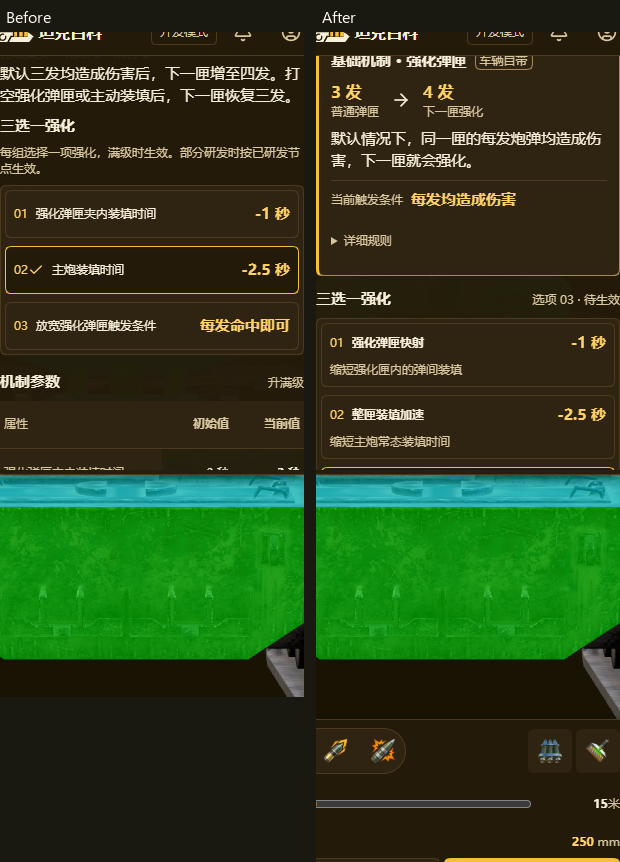
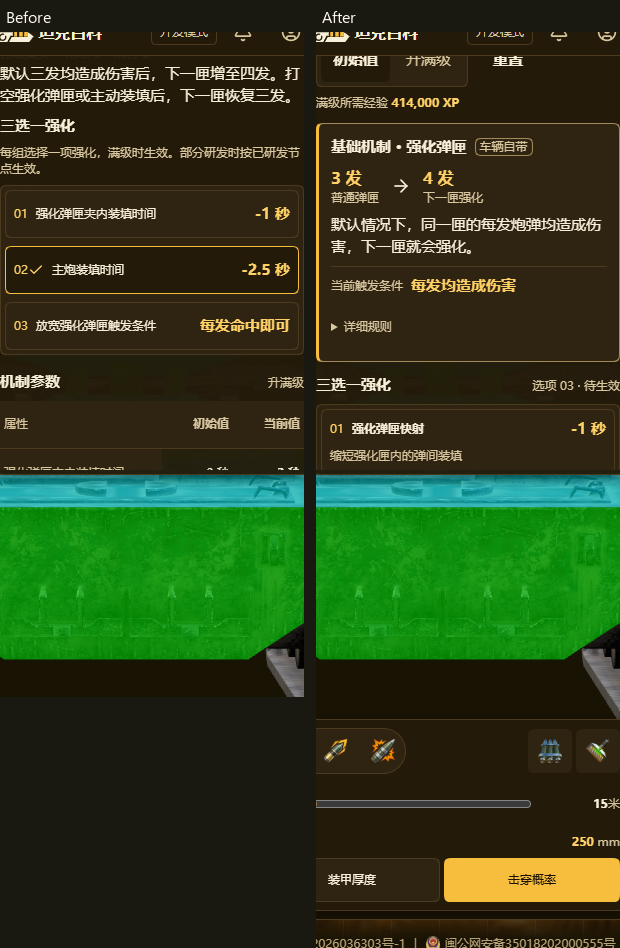
feat(frontend): 在 XI 升级切换器旁显示满级总经验

diff --git a/frontend/src/components/TankConfigPanel.vue b/frontend/src/components/TankConfigPanel.vue
@@ -22,7 +22,7 @@ import { configIndexFor, consumableTiming, pickGun, pickTurret, presetSlots, tan
 import { formatUpgradeValue } from '../utils/formatUpgradeValue'
 import { fmtNum } from '../scene/tankMeta.js'
 import { romanLevel } from '../utils/tierFormat.js'
-import { boundAbility, resolveUpgradeSelection, mechanicParameterGroups } from '../replay-local/compute/tankUpgrades'
+import { fullResearchXp, boundAbility, resolveUpgradeSelection, mechanicParameterGroups } from '../replay-local/compute/tankUpgrades'
 import { parseAugmentProgression, researchGroupChoice } from '../replay-local/compute/tankAugmentTree'
 import { isConditionalCrewSkill } from '../replay-local/compute/crewStats'
 
@@ -66,6 +66,10 @@ const upgrades = computed(() => {
   const state = resolveUpgradeSelection(props.modules, props.selection.upgrade, props.selection.abilities)
   return { ...state, supported: state.supported && props.upgradeSupported }
 })
+const fullXp = computed(() => fullResearchXp(upgrades.value))
+const fullXpText = computed(() => fullXp.value == null
+  ? t('agentTanks.configurator.xp_incomplete')
+  : t('agentTanks.configurator.xp_value', { value: fullXp.value.toLocaleString(locale.value) }))
 const upgradeOptions = computed(() => [
   { value: 'stock', label: t('agentTanks.configurator.upgrade_stock'), testid: 'tank-upgrade-stock' },
   { value: 'top', label: t('agentTanks.configurator.upgrade_top'), testid: 'tank-upgrade-top', disabled: !upgrades.value.supported },
@@ -479,15 +483,8 @@ const camoBonusParts = computed(() => {
 
 <template>
   <section class="tp-config" :class="{ 'is-embedded': embedded }" :aria-label="t('agentTanks.configurator.title')" data-testid="tank-configurator">
-    <header class="tp-config-head">
+    <header v-if="!embedded || !upgrades.available" class="tp-config-head">
       <h2 v-if="!embedded" class="tp-section-title">{{ t('agentTanks.configurator.title') }}</h2>
-      <SegmentedControl
-        v-if="embedded && upgrades.available"
-        :model-value="upgrades.mode"
-        :options="upgradeOptions"
-        :aria-label="t('agentTanks.configurator.upgrade_title')"
-        @update:model-value="emit('update', { upgrade: $event })"
-      />
       <div class="tp-config-actions">
         <AppButton v-if="!upgrades.available" variant="ghost" size="sm" data-testid="tank-preset-stock" @click="emit('preset', 'stock')">
           {{ t('agentTanks.configurator.stock') }}
@@ -503,14 +500,14 @@ const camoBonusParts = computed(() => {
 
     <section v-if="upgrades.available" class="tp-config-block tp-upgrades" data-testid="tank-upgrades">
       <h3 v-if="!embedded">{{ t('agentTanks.configurator.upgrade_title') }}</h3>
-      <SegmentedControl
-        v-if="!embedded"
-        class="tp-upgrade-mode"
-        :model-value="upgrades.mode"
-        :options="upgradeOptions"
-        :aria-label="t('agentTanks.configurator.upgrade_title')"
-        @update:model-value="emit('update', { upgrade: $event })"
-      />
+      <div class="tp-upgrade-row">
+        <SegmentedControl class="tp-upgrade-mode" :model-value="upgrades.mode" :options="upgradeOptions"
+          :aria-label="t('agentTanks.configurator.upgrade_title')" @update:model-value="emit('update', { upgrade: $event })" />
+        <span class="tp-upgrade-xp" data-testid="tank-full-xp">{{ t('agentTanks.configurator.full_xp') }} <strong>{{ fullXpText }}</strong></span>
+        <AppButton v-if="embedded" variant="ghost" size="sm" data-testid="tank-config-reset" @click="emit('reset')">
+          {{ t('agentTanks.configurator.reset') }}
+        </AppButton>
+      </div>
       <p v-if="!embedded" class="tp-muted">{{ t('agentTanks.configurator.upgrade_hint') }}</p>
       <p v-if="!upgrades.supported" class="tp-muted" role="status">{{ t('agentTanks.configurator.upgrade_unsupported') }}</p>
       <TankMechanicSummary v-for="message in mechanicMessages" :key="`${modules.tankId}-${message.name}`"
@@ -559,6 +556,10 @@ const camoBonusParts = computed(() => {
         <p v-if="hasMissingValues" class="tp-muted">{{ t('agentTanks.configurator.missing_mechanic_values') }}</p>
       </section>
     </section>
+
+    <p v-if="Number(detail.tier) === 11 && !upgrades.available" class="tp-upgrade-xp" data-testid="tank-full-xp">
+      {{ t('agentTanks.configurator.full_xp') }} <strong>{{ fullXpText }}</strong>
+    </p>
 
     <!-- 桌面/平板：首行 = 4 个类型标签，之后按选项序号逐行展开（炮塔1|火炮1|发动机1|履带1，
          下一行炮塔2|火炮2…），4 列严格对齐，避免右侧空白。 -->
@@ -807,7 +808,7 @@ const camoBonusParts = computed(() => {
 }
 .tp-config.is-embedded { gap: var(--space-2); padding: 0; border: 0; border-radius: 0; background: transparent; box-shadow: none; }
 .tp-config.is-embedded .tp-config-head { justify-content: flex-end; }
-.tp-config.is-embedded .tp-config-head > .segmented { margin-inline-end: auto; }
+
 
 .tp-config-head { display: flex; align-items: center; justify-content: space-between; gap: var(--space-2); flex-wrap: wrap; }
 .tp-config-actions { display: flex; flex-wrap: wrap; gap: var(--space-1); }
@@ -816,7 +817,10 @@ const camoBonusParts = computed(() => {
 .tp-muted { margin: 0; color: var(--color-text-secondary); font: var(--type-caption); }
 
 .tp-upgrades { grid-template-columns: minmax(0, 1fr); }
-.tp-upgrade-mode { justify-self: start; max-inline-size: 100%; }
+.tp-upgrade-row { display: flex; align-items: center; gap: var(--space-2) var(--space-3); flex-wrap: wrap; }
+.tp-upgrade-xp { margin: 0; color: var(--color-text-secondary); font: var(--type-caption); overflow-wrap: anywhere; }
+.tp-upgrade-xp strong { color: var(--color-accent-text); font-variant-numeric: tabular-nums; }
+.tp-upgrade-mode { flex: 0 0 auto; max-inline-size: 100%; }
 .tp-upgrade-mode :deep(.segmented-option) { flex: 0 1 auto; white-space: normal; }
 .tp-ability-options { display: grid; grid-template-columns: repeat(3, minmax(0, 1fr)); gap: var(--space-2); }
 .tp-ability-options :deep(.segmented-option) {
@@ -1041,6 +1045,7 @@ const camoBonusParts = computed(() => {
 }
 
 @media (width < 768px) {
+  .tp-upgrade-row .tp-upgrade-xp { order: 1; flex-basis: 100%; }
   .tp-ability-options.is-tiles { grid-template-columns: minmax(0, 1fr); grid-auto-flow: row; }
   .tp-ability-content { flex-direction: row; align-items: center; flex-wrap: wrap; }
   .tp-ability-content > .tp-muted { flex-basis: 100%; }

diff --git a/frontend/src/replay-local/compute/tankUpgrades.test.ts b/frontend/src/replay-local/compute/tankUpgrades.test.ts
@@ -8,7 +8,7 @@ import { computeCharacteristics } from './characteristics'
 import { baseSelection, buildComputeInput } from './tankSetup'
 import { parseTankopediaQuery } from '../../utils/tankopediaQuery.js'
 import { parseAugmentProgression, researchGroupChoice } from './tankAugmentTree'
-import { mechanicParameterGroups, projectTankUpgrades, resolveUpgradeSelection, upgradeMechanicEffects, type UpgradeDefinition, type UpgradeNode } from './tankUpgrades'
+import { fullResearchXp, mechanicParameterGroups, projectTankUpgrades, resolveUpgradeSelection, upgradeMechanicEffects, type UpgradeDefinition, type UpgradeNode } from './tankUpgrades'
 
 const bz = TANKS.find(t => t.modules.tankId === 15153)!
 const object432 = TANKS.find(t => t.modules.tankId === 27905)!
@@ -611,5 +611,46 @@ describe('XI 投影后的 DPM 与伤害/装填自洽', () => {
     // 连发炮的 dpm 恒为 null（与包内一致），不得被补成数字
     const burstDetail = { ...detail, configs: [{ ...detail.configs[0], is_burst: true }] }
     expect(projectTankUpgrades(burstDetail, modules, 'top', []).detail.configs[0].dpm).toBeNull()
+  })
+})
+
+describe('full XI research cost', () => {
+  const price = (modules: unknown) => fullResearchXp(resolveUpgradeSelection(modules, 'stock'))
+  it.each([[23361, 414000], [30993, 414000], [30737, 320000], [10593, 320000]])('counts shared prerequisites and each group once for %i', (id, expected) => {
+    const modules = T11R3.tanks.find(tank => tank.modules.tankId === id)!.modules
+    expect(price(modules)).toBe(expected)
+    for (const mode of ['stock', 'custom', 'top']) {
+      for (const choice of modules.upgradeProgression.alternativeGroups[0]!.choices)
+        expect(fullResearchXp(resolveUpgradeSelection(modules, mode, [choice]))).toBe(expected)
+    }
+  })
+  const sample = () => resolveUpgradeSelection(T11R3.tanks[0]!.modules, 'top')
+  it('distinguishes free research from missing or invalid prices', () => {
+    const s = sample()
+    const paid = [...s.nodes.filter(n => n.type !== 'NODETYPE_ALTERNATIVE_MECHANIC'), ...s.groups]
+    for (const entry of paid) entry.xpCost = 0
+    expect(fullResearchXp(s)).toBe(0)
+    for (const invalid of [undefined, null, -1, Infinity, NaN, '100']) {
+      paid[0]!.xpCost = invalid
+      expect(fullResearchXp(s)).toBeNull()
+    }
+    paid[0]!.xpCost = 0
+    delete s.groups[0]!.xpCost
+    expect(fullResearchXp(s)).toBeNull()
+  })
+  it('rejects unknown contracts, broken dependencies, and mismatched versions', () => {
+    const s = sample()
+    const choice = s.nodes.find(n => n.type === 'NODETYPE_ALTERNATIVE_MECHANIC')!
+    choice.xpCost = 0
+    expect(fullResearchXp(s)).toBeNull()
+    delete choice.xpCost
+    const node = s.nodes[0]!
+    for (const req of [[node.techName], ['missing'], [choice.techName], 'broken']) {
+      node.requiredNodes = req
+      expect(fullResearchXp(s)).toBeNull()
+    }
+    const modules = T11R3.tanks[0]!.modules
+    expect(price({ ...modules, gameVersion: 'other' })).toBeNull()
+    expect(price({ tier: 11 })).toBeNull()
   })
 })

diff --git a/frontend/src/replay-local/compute/tankUpgrades.ts b/frontend/src/replay-local/compute/tankUpgrades.ts
@@ -251,6 +251,46 @@ export function resolveUpgradeSelection(modules: unknown, mode?: unknown, inputC
   return result
 }
 
+/** Cost from stock to full research. The validated selection owns node identities and group membership. */
+export function fullResearchXp(selection: UpgradeSelection): number | null {
+  if (!selection.available || !selection.supported) return null
+  const required = new Map(selection.nodes.map(node => [node.techName, node]))
+  if (required.size !== selection.nodes.length) return null
+
+  const paid = new Set<string>()
+  const visiting = new Set<string>()
+  let total = 0
+  function charge(cost: unknown): boolean {
+    if (typeof cost !== 'number' || !Number.isSafeInteger(cost) || cost < 0) return false
+    total += cost
+    return Number.isSafeInteger(total)
+  }
+  function prerequisitesValid(refs: unknown): boolean {
+    return refs === undefined || (Array.isArray(refs) && refs.every(name => {
+      const node = required.get(name)
+      return node && node.type !== 'NODETYPE_ALTERNATIVE_MECHANIC' && visit(node)
+    }))
+  }
+  function visit(node: UpgradeNode): boolean {
+    if (paid.has(node.techName)) return true
+    if (visiting.has(node.techName)) return false
+    visiting.add(node.techName)
+    if (!prerequisitesValid(node.requiredNodes)) return false
+    if (node.type === 'NODETYPE_ALTERNATIVE_MECHANIC') {
+      if ('xpCost' in node) return false
+    } else if (!charge(node.xpCost)) return false
+    visiting.delete(node.techName)
+    paid.add(node.techName)
+    return true
+  }
+
+  if (!selection.nodes.every(visit)) return null
+  for (const group of selection.groups) {
+    if (!prerequisitesValid(group.requiredNodes) || !charge(group.xpCost)) return null
+  }
+  return total
+}
+
 export const HIT_TRIGGER_ATTRIBUTES = new Set([
   'SAS_ALLOW_ACTIVATE_ON_HIT',
   'EXTERNAL_AMMO_MODULE_ALLOW_NON_DAMAGING_HITS',

diff --git a/frontend/src/components/TankConfigPanel.behavior.test.js b/frontend/src/components/TankConfigPanel.behavior.test.js
@@ -124,9 +124,23 @@ describe('XI 技能选择卡与效果反馈', () => {
     wrapper.unmount()
   })
 
+  it('refreshes the XP label when an embedded panel changes vehicle or dataset', async () => {
+    const tank = t11r3.tanks.find(t => t.modules.tankId === 23361)
+    const wrapper = panel('ru', tank, { embedded: true })
+    const xp = () => wrapper.get('[data-testid="tank-full-xp"]').text()
+    expect(xp()).toContain((414000).toLocaleString('ru'))
+    await wrapper.setProps({ modules: { ...tank.modules, gameVersion: 'other' } })
+    expect(xp()).toContain('неполные данные')
+    await wrapper.setProps(t11r3.tanks.find(t => t.modules.tankId === 10593))
+    expect(xp()).toContain((320000).toLocaleString('ru'))
+    wrapper.unmount()
+  })
+
   it.each(t11r3.tanks)('t11r3 $modules.tankId reads each initial value and applies one upgrade option at a time', async tank => {
     const wrapper = panel('zh', tank, { catalog: { ...catalog, consumables: t11r3.consumables,
       provisions: t11r3.provisions, consumablesGameVersion: t11r3.gameVersion, provisionsGameVersion: t11r3.gameVersion } })
+    const xp = wrapper.get('[data-testid="tank-full-xp"]')
+    expect(xp.text()).toContain([23361, 30993].includes(tank.modules.tankId) ? '414,000 XP' : '320,000 XP')
     const rows = wrapper.get('[data-testid="tank-mechanic-effects"]').findAll('tbody tr')
     const fields = new Set(tank.modules.upgradeProgression.nodes.flatMap(node => node.attributes)
       .map(attr => attr.name).filter(name => !name.startsWith('ATTRIBUTE_NAME_')))

diff --git a/frontend/src/components/TankMechanicSummary.vue b/frontend/src/components/TankMechanicSummary.vue
@@ -1,21 +1,23 @@
-<script setup>
+<script setup lang="ts">
 import { computed } from 'vue'
 import { useI18n } from 'vue-i18n'
 import { ArrowRight } from 'lucide-vue-next'
 import { formatUpgradeValue } from '../utils/formatUpgradeValue'
 
-const props = defineProps({
-  message: { type: Object, required: true },
-  sections: { type: Array, required: true },
-})
+import type { mechanicParameterGroups } from '../replay-local/compute/tankUpgrades'
+
+const props = defineProps<{
+  message: { name: string; description: string; stem?: string; item?: { script?: { params?: { maxBoostToMaxAlpha?: unknown } } } }
+  sections: ReturnType<typeof mechanicParameterGroups>
+}>()
 const { t } = useI18n()
-const copy = (key, params) => t(`agentTanks.configurator.summary_copy.${key}`, params)
+const copy = (key: string, params: Record<string, unknown> = {}) => t(`agentTanks.configurator.summary_copy.${key}`, params)
 const stem = computed(() => props.message.stem)
 const clip = computed(() => stem.value === 'externalAmmoModule')
 const rocket = computed(() => stem.value === 'unguidedRocket')
 const secondary = computed(() => rocket.value || stem.value === 'auxilliaryWeapons')
 const rows = computed(() => props.sections.flatMap(section => section.rows))
-function row(name) {
+function row(name: string) {
   // A summary has no selected projectile. Leave ambiguous multi-shot values in their individual tables.
   const matches = rows.value.filter(entry => entry.name === name)
   return matches.length === 1 ? matches[0] : undefined

diff --git a/docs/android/releases/5.5.1.md b/docs/android/releases/5.5.1.md
@@ -2,5 +2,5 @@
 
 - versionName：5.5.1
 - versionCode：5005001
-- patch 版本，修正 XI 配置器的触发条件说明与强化状态反馈，改善窄屏信息层级。
+- patch 版本，修正 XI 配置器的触发条件说明与强化状态反馈，改善窄屏信息层级，并显示满级所需研发经验。
 - Native Bridge：v4，最低支持版本沿用现有发布配置。
